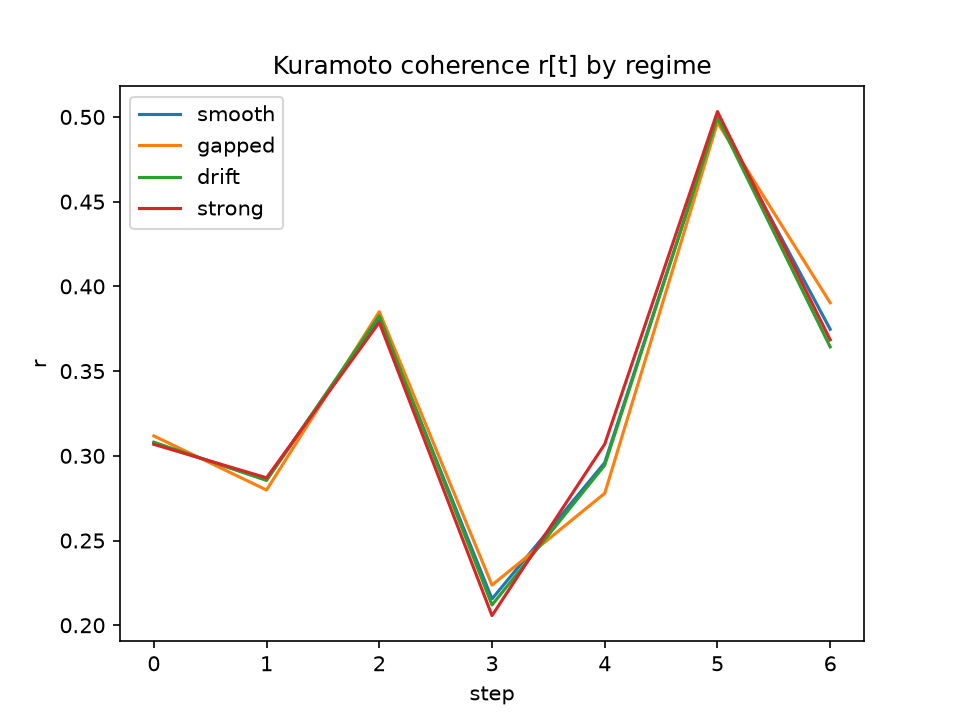
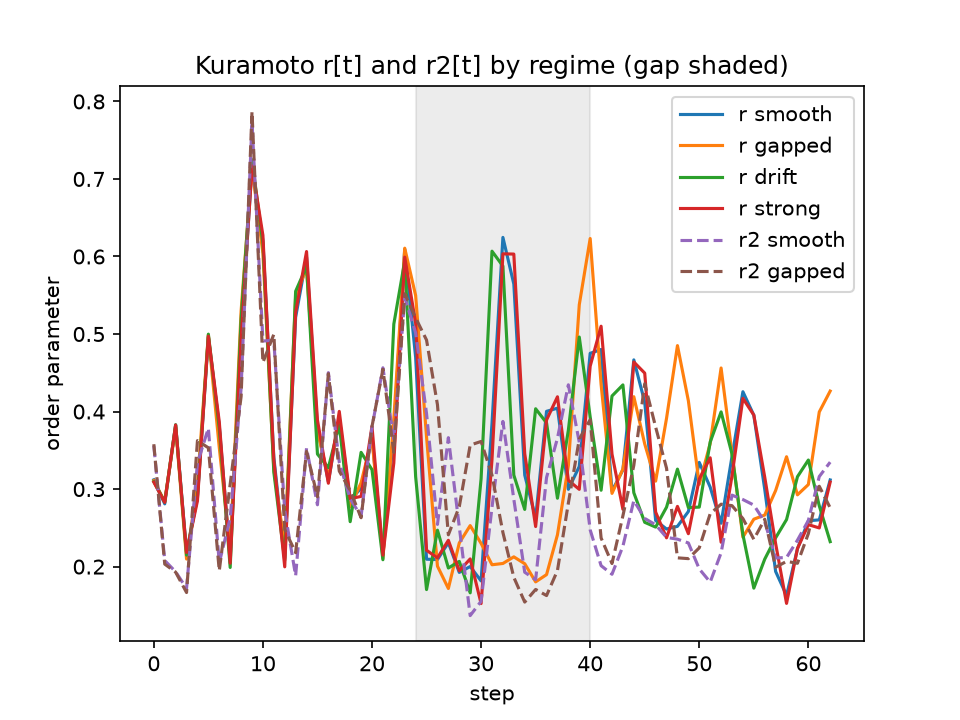
AFTER-6 v5 fix: row-wise Mv assembly (hstack->array), zero-norm guard in pc, activity control n_ev (steps fixed by design)

diff --git a/examples/proper_time_bench.py b/examples/proper_time_bench.py
@@ -1,12 +1,9 @@
 #!/usr/bin/env python3
-r"""proper_time_bench.py (v4.1) — reviewer-refined protocol, single-file rebuild.
-
-T1 seed/spectral transfer + bootstrap CI (fixed train) + permutation p.
-T4 Spearman partial corr(erased, sat | steps).
-T2 AUC + sign for centroid; transient energy; relaxation tau; Cohen's d.
-T3 r[t] trajectories; robust gap-window rise test (quartiles, adaptive
-   episode length); normalized time-to-peak; LOO-LDA on 2 features;
-   coherence curves plot (matplotlib optional).
+r"""proper_time_bench.py (v5) — fixed-length episodes (gaps exist), paired
+bootstrap + permutation null on delta R2, tau residual diagnostics + internal
+tau head, power analysis, vector r[t] feature with permutation LOO-LDA,
+LDA sanity simulation, second-moment order parameter, gapnoise reframed as
+regime-switch control.
 """
 import json
 from pathlib import Path
@@ -15,7 +12,7 @@ import numpy as np
 
 from lfunc_dynamics.proper_time import RecurrentCell, ProperTimeProbe
 
-T_MAX, LAM_TARGET = 128, 40.0
+T_REC = 64
 B_BOOT, B_PERM = 300, 200
 
 
@@ -39,10 +36,10 @@ def pcorr_spearman(x, y, z):
 
     def pc(a, b):
         a = a - a.mean(); b = b - b.mean()
-        return float((a @ b) / np.sqrt((a @ a) * (b @ b)))
-    rxy, rxz, ryz = pc(rx, ry), pc(rx, rz), pc(ry, rz)
-    den = np.sqrt((1 - rxz ** 2) * (1 - ryz ** 2))
-    return float((rxy - rxz * ryz) / den) if den > 1e-12 else 0.0
+        na, nb = float(np.sqrt(a @ a)), float(np.sqrt(b @ b))
+        if na < 1e-12 or nb < 1e-12:
+            return 0.0
+        return float((a @ b) / (na * nb))
 
 
 def auc(score, y):
@@ -61,14 +58,21 @@ def cohens_d(a, b):
     return float((a.mean() - b.mean()) / np.sqrt(var)) if var > 0 else 0.0
 
 
-def relax_tau(d, n=24):
+def exp_fit_stats(d, n=24):
+    """tau + качество экспоненциальной модели: R2 лог-фита и lag-1 остатков."""
     d = np.asarray(d[:n], float)
     d = d[d > 0]
     if d.size < 8:
-        return np.nan
+        return np.nan, np.nan, np.nan
     s = np.log(d + 1e-9)
-    slope = np.polyfit(np.arange(len(s)), s, 1)[0]
-    return float(-1.0 / slope) if slope < -1e-6 else np.inf
+    t = np.arange(len(s))
+    slope, icpt = np.polyfit(t, s, 1)
+    resid = s - (icpt + slope * t)
+    ss_tot = np.sum((s - s.mean()) ** 2)
+    r2 = float(1 - np.sum(resid ** 2) / ss_tot) if ss_tot > 0 else 0.0
+    lag1 = float(np.corrcoef(resid[:-1], resid[1:])[0, 1]) if resid.size > 3 else np.nan
+    tau = float(-1.0 / slope) if slope < -1e-6 else np.inf
+    return tau, r2, lag1
 
 
 def r2fit(Xtr, ytr, Xte, yte):
@@ -81,19 +85,29 @@ def r2fit(Xtr, ytr, Xte, yte):
     return float(1 - np.sum((yte - pred) ** 2) / den) if den > 0 else 0.0
 
 
-def boot_ci(Xtr, ytr, Xte, yte, B=B_BOOT, seed=0):
-    """CI тестового R2 при ФИКСИРОВАННОЙ обученной модели (ресэмпл теста)."""
+def paired_boot_delta(Xi0, Xe0, y0, Xi1, Xe1, y1, ntr, B=B_BOOT, seed=0):
+    """Paired bootstrap: один ресэмпл -> обе руки переобучены -> delta R2."""
     rng = np.random.default_rng(seed)
-    n = len(yte)
-    vals = []
+    ds = []
     for _ in range(B):
-        idx = rng.integers(0, n, n)
-        if len(np.unique(yte[idx])) < 2:
-            continue
-        vals.append(r2fit(Xtr, ytr, Xte[idx], yte[idx]))
-    if not vals:
-        return float("nan"), float("nan")
-    return float(np.percentile(vals, 2.5)), float(np.percentile(vals, 97.5))
+        idx = rng.integers(0, ntr, ntr)
+        ri = r2fit(Xi0[idx], y0[idx], Xi1, y1)
+        re = r2fit(Xe0[idx], y0[idx], Xe1, y1)
+        ds.append(ri - re)
+    return float(np.percentile(ds, 2.5)), float(np.percentile(ds, 97.5))
+
+
+def perm_delta_p(Xi0, Xe0, y0, Xi1, Xe1, y1, ntr, obs, B=B_PERM, seed=0):
+    """Нулевая: target перемешан -> распределение delta R2 между руками."""
+    rng = np.random.default_rng(seed)
+    cnt = 0
+    for _ in range(B):
+        yp = rng.permutation(y0[:ntr])
+        ri = r2fit(Xi0[:ntr], yp, Xi1, y1)
+        re = r2fit(Xe0[:ntr], yp, Xe1, y1)
+        if ri - re >= obs:
+            cnt += 1
+    return (cnt + 1) / (B + 1)
 
 
 def perm_p(Xtr, ytr, Xte, yte, obs, B=B_PERM, seed=0):
@@ -118,22 +132,31 @@ def loo_lda(F, y):
     return correct / len(y)
 
 
-def delta_r(rs):
-    """Рост когерентности: вторая четверть траектории минус первая.
-    Робастно к адаптивной длине эпизода."""
+def pca_proj(M, k=3):
+    M = M - M.mean(0)
+    U, S, _ = np.linalg.svd(M, full_matrices=False)
+    return U[:, :k] * S[:k]
+
+
+def delta_r(rs, pre=(8, 24), during=(24, 40)):
     vals = []
     for r in rs:
         rj = r["r"]
-        if rj.size >= 10:
-            q = max(1, rj.size // 4)
-            vals.append(float(rj[q:2 * q].mean() - rj[:q].mean()))
+        if rj.size >= during[1]:
+            vals.append(float(rj[during[0]:during[1]].mean() - rj[pre[0]:pre[1]].mean()))
     if not vals:
-        return float("nan"), float("nan")
-    return float(np.mean(vals)), float(np.std(vals) / np.sqrt(len(vals)))
+        return float("nan"), float("nan"), 0
+    return float(np.mean(vals)), float(np.std(vals) / np.sqrt(len(vals))), len(vals)
+
+
+def power_n(delta, sd, alpha=0.05, power=0.8):
+    if not np.isfinite(delta) or not np.isfinite(sd) or delta <= 0 or sd <= 0:
+        return int(1e9)
+    return int(np.ceil(2 * (1.96 + 0.84) ** 2 * sd ** 2 / delta ** 2))
 
 
 # --------------------------------------------------------------------------
-# episodes
+# episodes: FIXED length so the gap window (24..40) is inside every episode
 # --------------------------------------------------------------------------
 def episode(regime, rng, wseed, warm=False):
     cell = RecurrentCell(seed=wseed)
@@ -149,8 +172,9 @@ def episode(regime, rng, wseed, warm=False):
     if regime == "drift":
         probe.set_drift(0.3)
     ou = np.zeros(cell.n)
-    cum_ns, stalls, hs, t = 0, [], [], 0
-    while t < T_MAX:
+    h_sum = np.zeros(cell.n)
+    cum_ns, stalls, d_gap = 0, [], []
+    for t in range(T_REC):
         if spec == "white":
             x = rng.normal(0.0, level, cell.n)
         else:
@@ -162,27 +186,28 @@ def episode(regime, rng, wseed, warm=False):
             x = rng.normal(0.0, 0.15, cell.n)
         st = int(50_000 * rng.lognormal(0.0, 0.3))
         stalls.append(st); cum_ns += st
-        h = cell.step(x); hs.append(h.copy())
+        h = cell.step(x); h_sum = h_sum + h
         probe.update(h, shadow.step(x))
-        t += 1
-        if probe.lam >= LAM_TARGET and t >= 8:
-            break
+        if 24 <= t < 40:
+            d_gap.append(probe.d_series[-1])
     snap = probe.snapshot()
     d = np.asarray(probe.d_series, float)
-    E = float(d[:20].sum() - d[-20:].sum()) if d.size >= 40 else 0.0
+    tau, r2_exp, lag1 = exp_fit_stats(d)
     return dict(reg=regime, level=level, spec=spec, snap=snap,
-                r=np.asarray(probe.bank.history, float), d=d,
-                c_fwd=probe.transient_centroid(), E=E, tau=relax_tau(d),
-                cum=cum_ns, steps=t, mean_stall=float(np.mean(stalls)),
-                n_stall_big=int(np.sum(np.asarray(stalls) > 100_000)))
+                r=np.asarray(probe.bank.history, float),
+                r2=np.asarray(probe.bank.history2, float),
+                d=d, h_mean=h_sum / T_REC,
+                c_fwd=probe.transient_centroid(),
+                E=float(d[:20].sum() - d[-20:].sum()),
+                tau=tau, r2_exp=r2_exp, resid_lag1=lag1,
+                cum=cum_ns, mean_stall=float(np.mean(stalls)),
+                n_stall_big=int(np.sum(np.asarray(stalls) > 100_000)),
+                d_gap=float(np.mean(d_gap)) if d_gap else float("nan"))
 
 
-# --------------------------------------------------------------------------
-# main
 # --------------------------------------------------------------------------
 def main():
     rng = np.random.default_rng(7)
-
     rows = []
     for seed_off in (0, 900):
         for reg in ("white1", "white3"):
@@ -192,8 +217,9 @@ def main():
         for i in range(40):
             rows.append(episode(reg, rng, i % 5))
     warm = [episode("white1", rng, i % 5, warm=True) for i in range(60)]
+    res = {}
 
-    # ---- T1: seed / spectral transfer ----
+    # ---- T1 ----
     whites = [r for r in rows if r["spec"] == "white"]
     W0, W1 = whites[:80], whites[80:]
     OU = [r for r in rows if r["spec"] == "ou"]
@@ -209,89 +235,116 @@ def main():
     Xi1, Xe1, y1 = mats(W1)
     XiO, XeO, yO = mats(OU)
     ntr = 56
-    res = {}
     for arm, X0, X1, XO in (("int", Xi0, Xi1, XiO), ("ext", Xe0, Xe1, XeO)):
         obs1 = r2fit(X0[:ntr], y0[:ntr], X1, y1)
-        obsO = r2fit(X0[:ntr], y0[:ntr], XO, yO)
-        lo, hi = boot_ci(X0[:ntr], y0[:ntr], X1, y1)
         res[f"r2_{arm}_seed_transfer"] = obs1
-        res[f"r2_{arm}_spectral_transfer"] = obsO
-        res[f"ci_seed_transfer_{arm}"] = [lo, hi]
+        res[f"r2_{arm}_spectral_transfer"] = r2fit(X0[:ntr], y0[:ntr], XO, yO)
         res[f"perm_p_{arm}"] = perm_p(X0[:ntr], y0[:ntr], X1, y1, obs1)
-    res["delta_r2_seed_transfer"] = (res["r2_int_seed_transfer"]
-                                     - res["r2_ext_seed_transfer"])
+    d_obs = res["r2_int_seed_transfer"] - res["r2_ext_seed_transfer"]
+    lo, hi = paired_boot_delta(Xi0, Xe0, y0, Xi1, Xe1, y1, ntr)
+    res["delta_r2_seed_transfer"] = d_obs
+    res["delta_r2_paired_ci"] = [lo, hi]
+    res["perm_p_delta"] = perm_delta_p(Xi0, Xe0, y0, Xi1, Xe1, y1, ntr, d_obs)
 
-    # ---- T4: Spearman partial ----
+    # ---- T4 ----
     er = np.array([r["snap"]["erased"] for r in rows])
     sa = np.array([r["snap"]["sat"] for r in rows], float)
-    st = np.array([r["snap"]["steps"] for r in rows], float)
+    st = np.array([r["snap"]["n_ev"] for r in rows], float)  # steps фиксирован в v5; контроль активности = n_ev
     res["spearman_raw"] = float(np.corrcoef(ranks(er), ranks(sa))[0, 1])
-    res["spearman_partial_steps"] = pcorr_spearman(er, sa, st)
+    res["spearman_partial_activity"] = pcorr_spearman(er, sa, st)
 
-    # ---- T2: arrow candidates ----
+    # ---- T2 ----
     allr = rows + warm
     y_cold = np.zeros(len(allr)); y_cold[:len(rows)] = 1.0
-    f_cent = -np.array([r["c_fwd"] for r in allr])
-    f_E = np.array([r["E"] for r in allr])
-    taus = np.array([r["tau"] if np.isfinite(r["tau"]) else 1e3 for r in allr])
-    f_sl = -taus
-    res["auc_centroid"] = auc(f_cent, y_cold)
-    res["auc_energy"] = auc(f_E, y_cold)
-    res["auc_slope"] = auc(f_sl, y_cold)
-    res["d_centroid"] = cohens_d([r["c_fwd"] for r in rows],
-                                 [r["c_fwd"] for r in warm])
-    res["d_energy"] = cohens_d([r["E"] for r in rows], [r["E"] for r in warm])
+    res["auc_centroid"] = auc(-np.array([r["c_fwd"] for r in allr]), y_cold)
+    res["auc_energy"] = auc(np.array([r["E"] for r in allr]), y_cold)
+    taus_all = np.array([r["tau"] if np.isfinite(r["tau"]) else 1e3 for r in allr])
+    res["auc_slope"] = auc(-taus_all, y_cold)
+    res["d_centroid"] = cohens_d([r["c_fwd"] for r in rows], [r["c_fwd"] for r in warm])
     tc = [r["tau"] for r in rows if np.isfinite(r["tau"])]
     tw = [r["tau"] for r in warm if np.isfinite(r["tau"])]
     res["tau_cold_median"] = float(np.median(tc)) if tc else float("nan")
     res["tau_warm_median"] = float(np.median(tw)) if tw else float("nan")
+    res["tau_fit_r2_median"] = float(np.median([r["r2_exp"] for r in rows
+                                                if np.isfinite(r["r2_exp"])]))
+    res["tau_resid_lag1_median"] = float(np.median([r["resid_lag1"] for r in rows
+                                                    if np.isfinite(r["resid_lag1"])]))
+    # internal tau head: hidden -> log tau
+    ct = [r for r in rows if np.isfinite(r["tau"])]
+    Xh = np.array([r["h_mean"] for r in ct])
+    yl = np.log([r["tau"] for r in ct])
+    m = int(0.6 * len(yl))
+    mu, sd = Xh[:m].mean(0), Xh[:m].std(0) + 1e-12
+    A = np.hstack([(Xh[:m] - mu) / sd, np.ones((m, 1))])
+    w, *_ = np.linalg.lstsq(A, yl[:m], rcond=None)
+    Bm = np.hstack([(Xh[m:] - mu) / sd, np.ones((len(yl) - m, 1))])
+    den = np.sum((yl[m:] - yl[m:].mean()) ** 2)
+    res["r2_tau_head"] = float(1 - np.sum((yl[m:] - Bm @ w) ** 2) / den) if den > 0 else 0.0
 
-    # ---- T3: gap-rise test, curves, minimal classifier ----
+    # ---- T3 ----
     for g, k in (("smooth", "white1"), ("strong", "strong"), ("gapped", "gapped"),
                  ("gapnoise", "gapnoise"), ("drift", "drift")):
         rs = [r for r in rows if r["reg"] == k]
-        m, se = delta_r(rs)
-        res[f"delta_r_{g}"] = [m, se]
-    curve_regs = (("smooth", "white1"), ("gapped", "gapped"),
-                  ("drift", "drift"), ("strong", "strong"))
-    L = min(min(len(r["r"]) for r in rows if r["reg"] == k) for _, k in curve_regs)
-    res["mean_r_curves"] = {g: [float(np.mean([r["r"][i] for r in rows if r["reg"] == k]))
-                                for i in range(L)] for g, k in curve_regs}
-    res["time_to_peak_norm"] = {
-        g: float(np.mean([np.argmax(r["r"]) / max(len(r["r"]), 1)
-                          for r in rows if r["reg"] == k]))
-        for g, k in (("smooth", "white1"), ("gapped", "gapped"), ("drift", "drift"))}
-    cls = [r for r in rows if r["reg"] in ("white1", "gapped", "drift")]
-    F2 = np.array([[np.polyfit(np.arange(max(len(r["r"]) // 2, 2)),
-                               r["r"][:len(r["r"]) // 2], 1)[0], r["r"].max()]
-                   for r in cls])
-    y3 = np.array([{"white1": 0, "gapped": 1, "drift": 2}[r["reg"]] for r in cls])
-    res["loo_lda_2feat_acc"] = loo_lda(F2, y3)
-    res["corr_odom_work"] = float(np.corrcoef([r["snap"]["lam"] for r in rows],
-                                              [r["level"] for r in rows])[0, 1])
+        mm, se, nn = delta_r(rs)
+        res[f"delta_r_{g}"] = [mm, se, nn]
+        res[f"d_gap_{g}"] = float(np.mean([r["d_gap"] for r in rs]))
+        res[f"delta_r2_{g}"] = [float(np.mean([r["r2"][24:40].mean() - r["r2"][8:24].mean()
+                                               for r in rs]))]
+    mg, sg, ng = delta_r([r for r in rows if r["reg"] == "gapped"])
+    ms, ss, ns = delta_r([r for r in rows if r["reg"] == "white1"])
+    sd_pool = np.sqrt(((ng - 1) * (sg * np.sqrt(ng)) ** 2 + (ns - 1) * (ss * np.sqrt(ns)) ** 2)
+                      / max(ng + ns - 2, 1)) if ng > 0 and ns > 0 else np.nan
+    res["power_n_observed_effect"] = power_n(abs(mg - ms), sd_pool)
+    res["power_n_delta_005"] = power_n(0.05, sd_pool)
+    # vector feature: full r[t] (+r2[t]) window, PCA->3, LOO-LDA + permutation p
+    cls3 = [r for r in rows if r["reg"] in ("white1", "gapped", "drift")]
+    Mv = np.array([np.concatenate([r["r"][8:56], r["r2"][8:56]]) for r in cls3])  # (160, 96)
+    y3 = np.array([{"white1": 0, "gapped": 1, "drift": 2}[r["reg"]] for r in cls3])
+    Fp = pca_proj(Mv, 3)
+    acc_obs = loo_lda(Fp, y3)
+    rngp = np.random.default_rng(11)
+    cnt = 0
+    for _ in range(B_PERM):
+        if loo_lda(Fp, rngp.permutation(y3)) >= acc_obs:
+            cnt += 1
+    res["vec_lda_acc"] = acc_obs
+    res["vec_lda_perm_p"] = (cnt + 1) / (B_PERM + 1)
+    # LDA sanity simulation (procedure calibration)
+    rng2 = np.random.default_rng(3)
+    Fz = rng2.normal(0, 1, (120, 2))
+    yz = np.repeat([0, 1, 2], 40)
+    res["lda_sanity_chance"] = loo_lda(Fz, yz)
+    Fs = Fz + np.repeat([[0.0, 0.0], [1.5, 0.0], [-0.75, 1.3]], 40, axis=0)
+    res["lda_sanity_separated"] = loo_lda(Fs, yz)
 
-    # ---- plot coherence curves (optional) ----
+    # ---- plot ----
     try:
         import matplotlib
         matplotlib.use("Agg")
         import matplotlib.pyplot as plt
-        for g, k in curve_regs:
+        for g, k in (("smooth", "white1"), ("gapped", "gapped"),
+                     ("drift", "drift"), ("strong", "strong")):
             rs = [r for r in rows if r["reg"] == k]
-            Lp = min(len(r["r"]) for r in rs)
-            plt.plot(np.mean([r["r"][:Lp] for r in rs], axis=0), label=g)
-        plt.legend(); plt.xlabel("step"); plt.ylabel("r")
-        plt.title("Kuramoto coherence r[t] by regime")
+            L = min(len(r["r"]) for r in rs)
+            plt.plot(np.mean([r["r"][:L] for r in rs], axis=0), label=f"r {g}")
+        for g, k in (("smooth", "white1"), ("gapped", "gapped")):
+            rs = [r for r in rows if r["reg"] == k]
+            L = min(len(r["r2"]) for r in rs)
+            plt.plot(np.mean([r["r2"][:L] for r in rs], axis=0), "--",
+                     label=f"r2 {g}")
+        plt.axvspan(24, 40, color="grey", alpha=0.15)
+        plt.legend(); plt.xlabel("step"); plt.ylabel("order parameter")
+        plt.title("Kuramoto r[t] and r2[t] by regime (gap shaded)")
         plt.savefig("coherence_curves.png", dpi=150); plt.close()
         print("Saved: coherence_curves.png")
     except Exception as exc:
         print(f"[plot skipped] {exc}")
 
-    verdict = dict(stage="after6_v4", **res)
+    verdict = dict(stage="after6_v5", T_REC=T_REC, **res)
     out = Path("proper_time_verdicts.json")
     with open(out, "w") as fh:
         json.dump(verdict, fh, indent=1)
-    print(json.dumps({k: v for k, v in verdict.items()
-                      if k != "mean_r_curves"}, indent=1))
+    print(json.dumps(verdict, indent=1))
     print(f"Saved: {out}")
 
 
